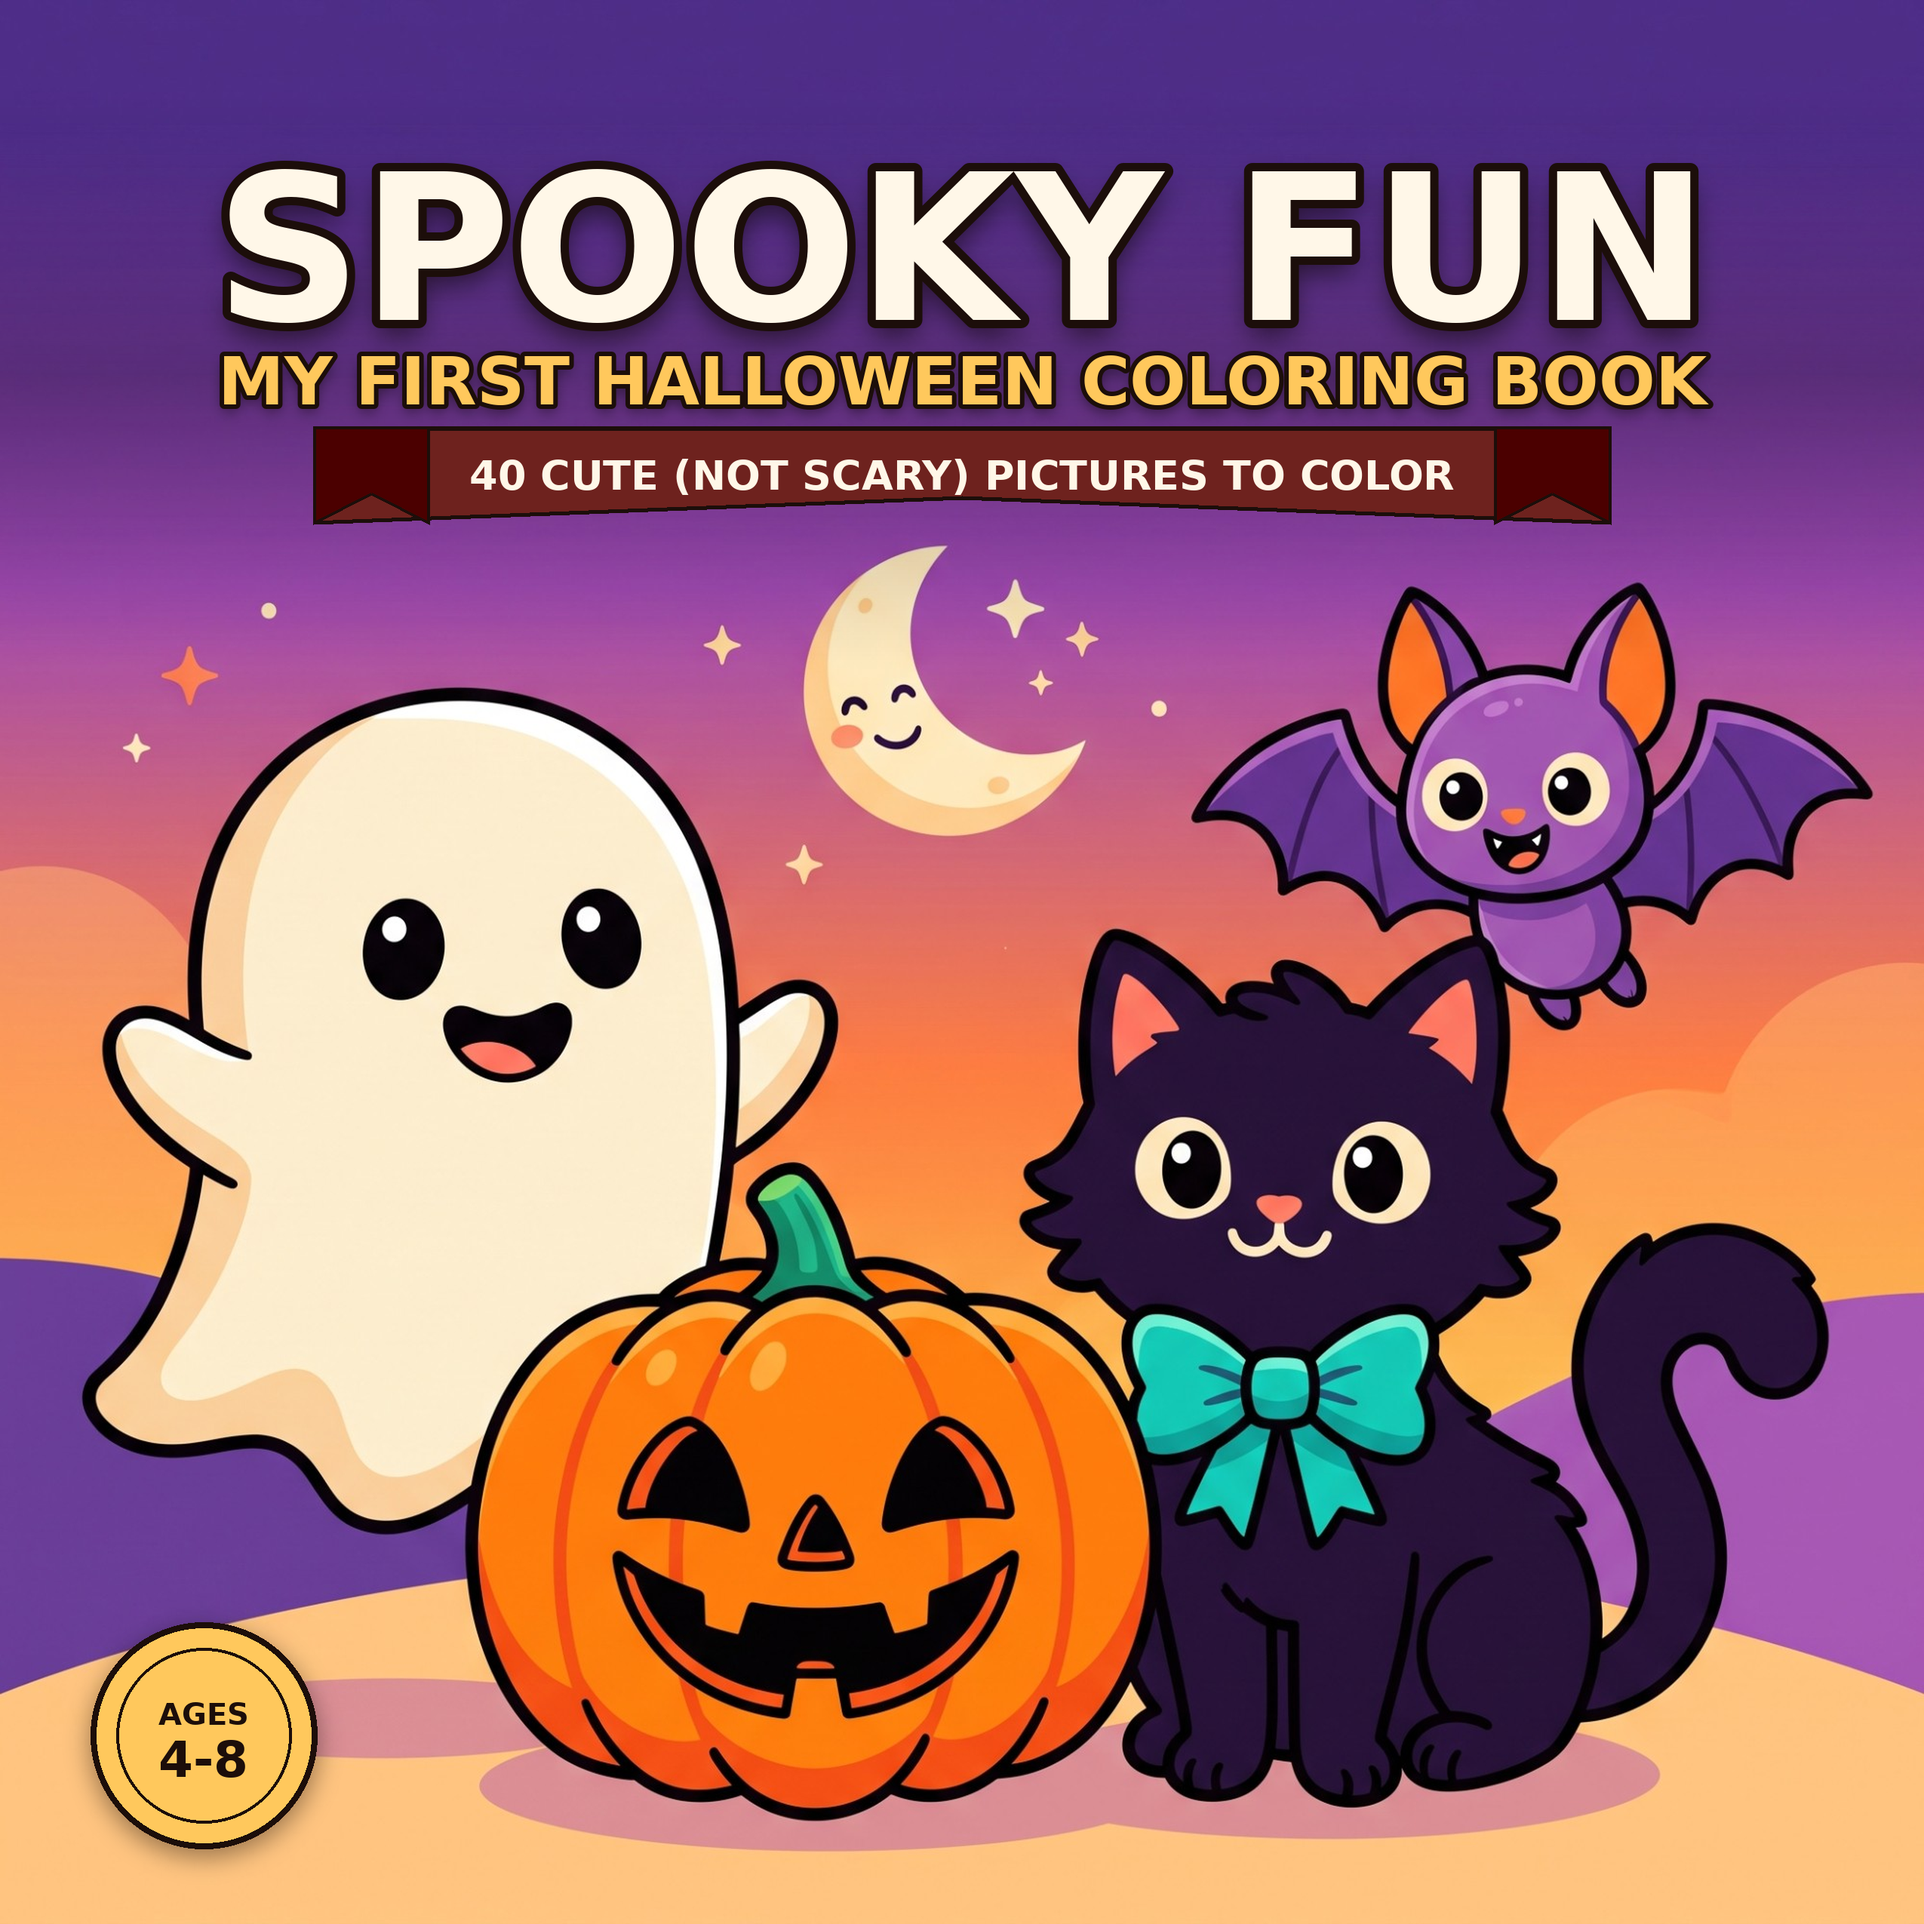
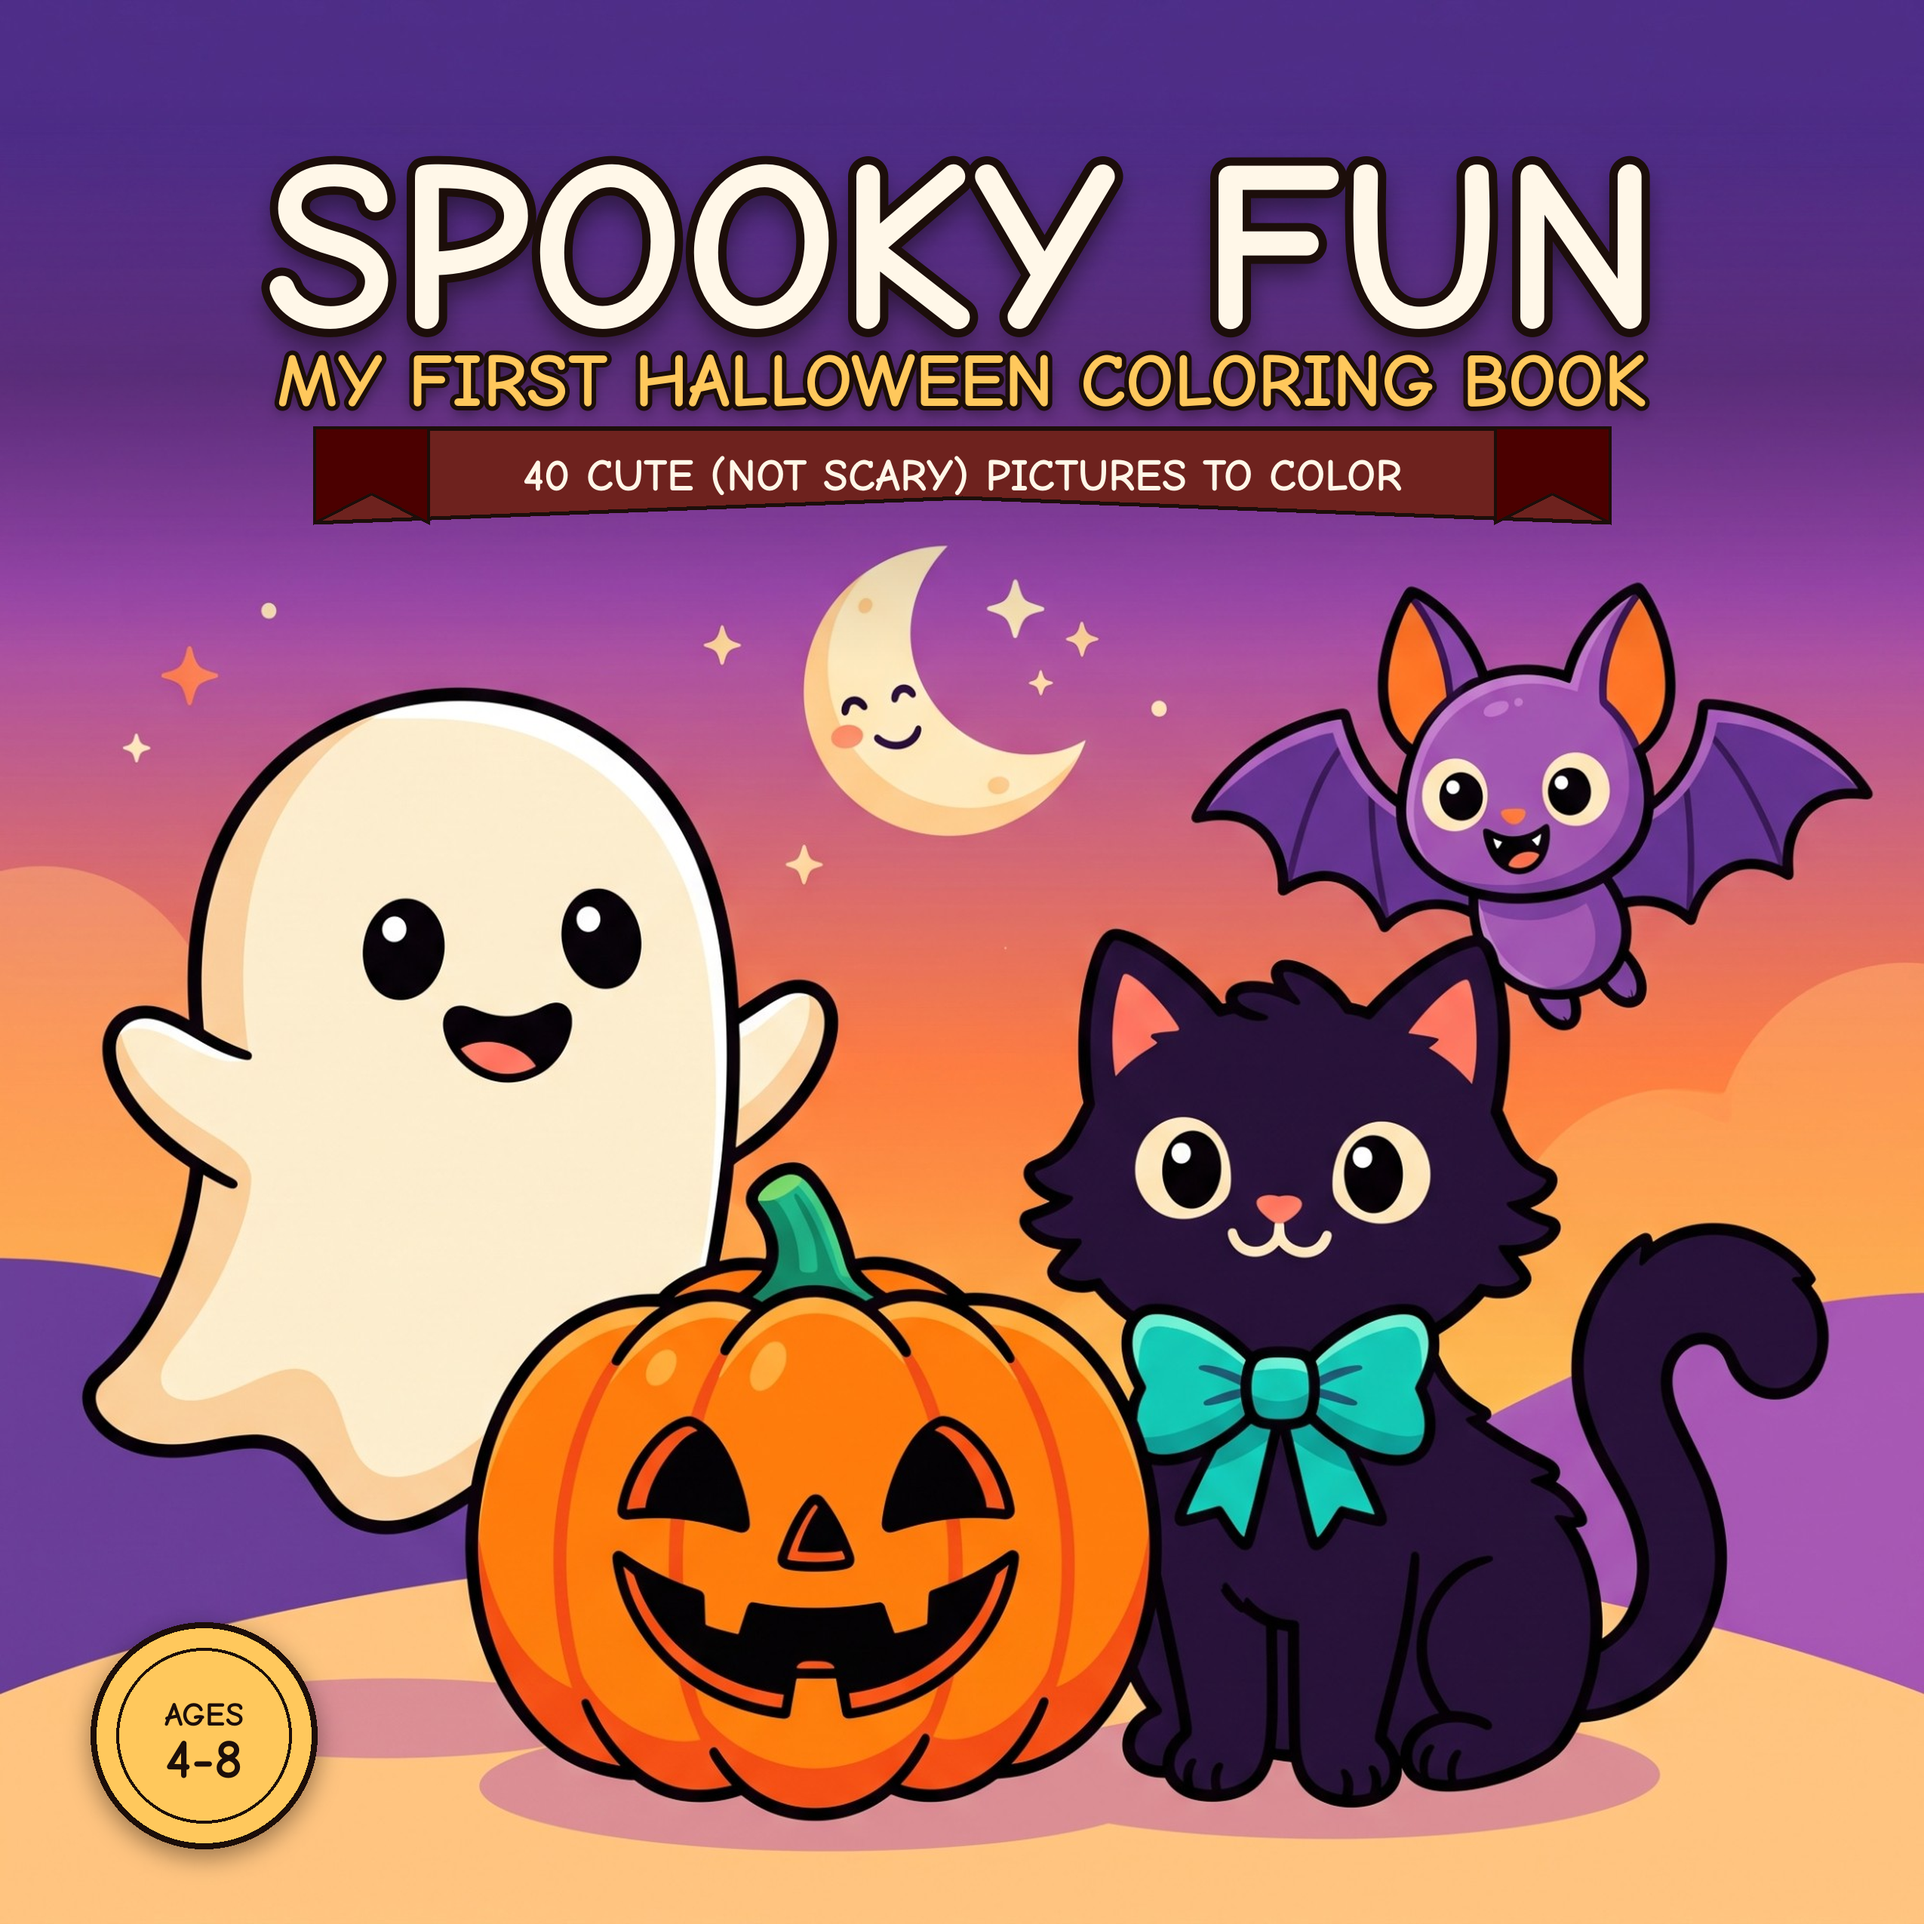
Switch cover title/badge text to Comic Neue for a childish feel
Installed fonts-comic-neue (a clean, rounded, kid-friendly font)
via apt since Google Fonts downloads are blocked in this environment.
Replaces the generic DejaVu Sans Bold used previously.

Claude-Session: https://claude.ai/code/session_018FpDPYG7VaBHwZBddGdZT2

Changed region(s): [[0.0929, 0.062, 0.8984, 0.2788], [0.0929, 0.8675, 0.1239, 0.9294]]

diff --git a/halloween/01-spooky-coloring-book/build_cover.py b/halloween/01-spooky-coloring-book/build_cover.py
@@ -13,18 +13,18 @@ BG = os.path.join(HERE, "external-art", "cover-background-external.jpg")
 OUT = os.path.join(HERE, "Spooky_Fun_Cover_Front.png")
 
 PAGE = 2550
-FONT_DIR = "/usr/share/fonts/truetype/dejavu"
+FONT_DIR = "/usr/share/fonts/opentype/comic-neue"
 
 
 def font(path, size):
     return ImageFont.truetype(os.path.join(FONT_DIR, path), size)
 
 
-F_TITLE = font("DejaVuSans-Bold.ttf", 270)
-F_SUB = font("DejaVuSans-Bold.ttf", 88)
-F_BADGE_SM = font("DejaVuSans-Bold.ttf", 54)
-F_SEAL_LABEL = font("DejaVuSans-Bold.ttf", 40)
-F_SEAL_NUM = font("DejaVuSans-Bold.ttf", 66)
+F_TITLE = font("ComicNeue-Bold.otf", 320)
+F_SUB = font("ComicNeue-Bold.otf", 100)
+F_BADGE_SM = font("ComicNeue-Bold.otf", 60)
+F_SEAL_LABEL = font("ComicNeue-Bold.otf", 44)
+F_SEAL_NUM = font("ComicNeue-Bold.otf", 74)
 
 CREAM = (255, 247, 232)
 GOLD = (255, 200, 92)
